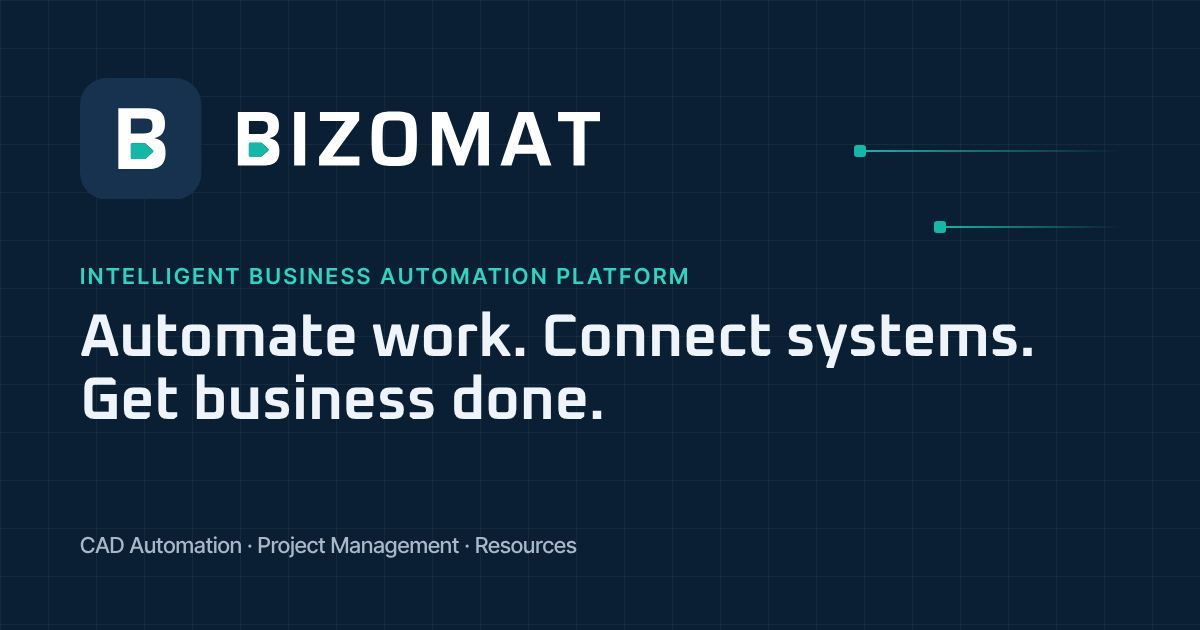
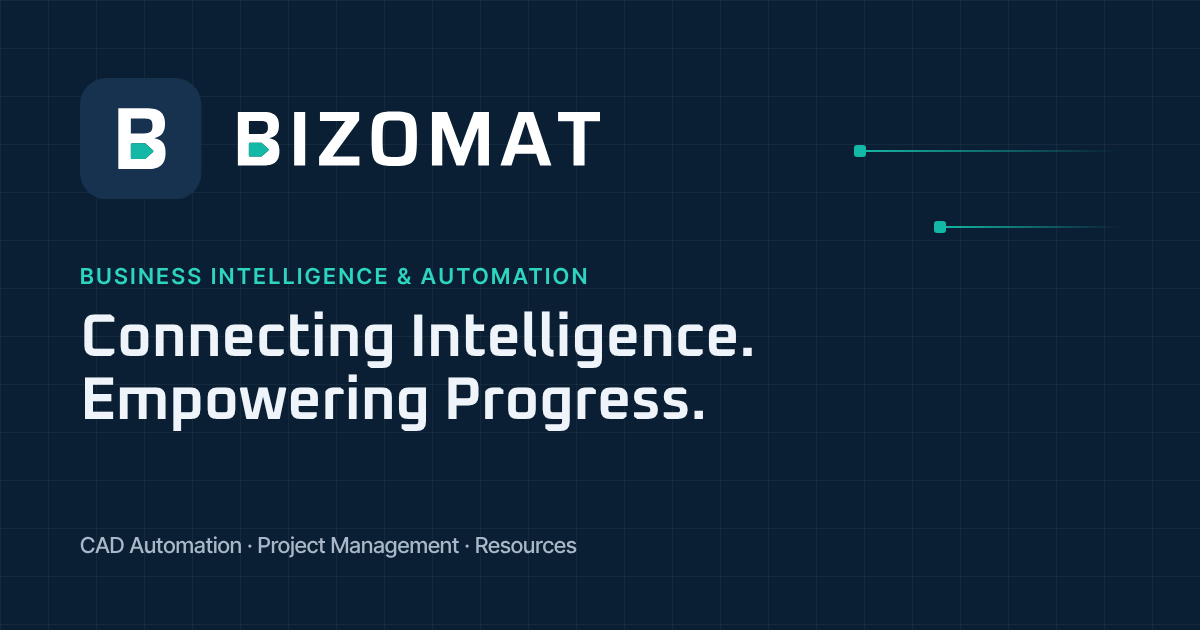
BIZOMAT corporate brand language: website and Project Management (#60) [skip ci]
Descriptor, slogan, supporting message, introduction and description from src/config/platform.ts; homepage hero and close; corporate footer; metadata and the main social image; Project Management's footers. Logo, layout, colours and product names unchanged. CI could not run (no Actions runner was assigned); verified locally: npm run verify (1515 tests, build), proxy tests, apps/work npm run check and Playwright core spec.

Changed region(s): [[0.0617, 0.4825, 0.8633, 0.6937], [0.0617, 0.4222, 0.5858, 0.4524]]

diff --git a/tests/homepage.test.ts b/tests/homepage.test.ts
@@ -10,11 +10,16 @@ import { PRODUCTS, SOLUTIONS } from '../src/config/products.ts';
 const read = (path: string) => readFileSync(join(process.cwd(), path), 'utf8');
 const home = read('src/pages/index.astro');
 
-// BIZOMAT homepage (5 Nov 2026): "Automate work. Connect systems. Get business done." Hero with Explore Products and
+// BIZOMAT homepage: the corporate slogan "Connecting Intelligence. Empowering Progress." (owner, 8 Nov 2026; it replaced
+// "Automate work. Connect systems. Get business done." of 5 Nov). Hero with Explore Products and
 // Explore AI Tools, then the three products, AI Search, proof, tools and the Library.
 test('the homepage leads with the BIZOMAT message, then products, AI search, proof, tools and resources', () => {
-  assert.match(home, /<p class="bz-eyebrow">Intelligent Business Automation Platform<\/p>/);
-  assert.match(home, /<h1 id="home-title"><span class="home-hero__line">Automate work\.<\/span> <span class="home-hero__line">Connect systems\.<\/span> <span class="home-hero__line">Get business done\.<\/span><\/h1>/);
+  assert.match(home, /<p class="bz-eyebrow">\{SITE\.tagline\}<\/p>/);
+  assert.match(home, /<h1 id="home-title"><span class="home-hero__line">Connecting Intelligence\.<\/span> <span class="home-hero__line">Empowering Progress\.<\/span><\/h1>/);
+  assert.match(home, /<p class="home-hero__lead">\{SITE\.introduction\}<\/p>/);
+  assert.equal(SITE.tagline, 'Business Intelligence & Automation');
+  assert.equal(SITE.statement, 'Connecting Intelligence. Empowering Progress.');
+  assert.equal(SITE.support, 'Technology Connected. Progress Delivered.');
   assert.match(home, />Explore Products<\/Button>/);
   assert.match(home, />Explore AI Tools<\/Button>/);
   assert.match(home, /<ConnectedOps id="hero-ops" \/>/, 'the hero shows connected operations');
@@ -24,7 +29,7 @@ test('the homepage leads with the BIZOMAT message, then products, AI search, pro
   assert.match(home, /<Button href="\/tools\/" arrow data-cta="home-tools">Explore Tools<\/Button>/);
   assert.match(home, /<Button href="\/reados\/" arrow data-cta="home-library">Explore Library<\/Button>/);
   assert.match(home, /<form class="home-search" role="search" action="\/tools\/" method="get">/, 'tool search works without JavaScript');
-  assert.equal(SITE.title, 'BIZOMAT | Intelligent Business Automation Platform');
+  assert.equal(SITE.title, 'BIZOMAT | Business Intelligence & Automation');
   assert.deepEqual(NAV.map((n) => n.label), ['CAD Automation', 'Project Management', 'Resources', 'Engine Room']);
   assert.deepEqual(NAV.map((n) => n.href), ['/cad-automation/', '/work/', '/resources/', '/engine-room/']);
 });

diff --git a/apps/work/src/client/lib/brand.ts b/apps/work/src/client/lib/brand.ts
@@ -6,8 +6,11 @@ import { DEFAULT_COLOR, PRODUCT } from '../../shared/brand';
 export const BRAND = {
   /** The platform this product belongs to. Never followed by a trade mark sign. */
   platform: PRODUCT.platform,
-  platformTagline: 'Intelligent Business Automation Platform',
-  statement: 'Automate work. Connect systems. Get business done.',
+  /** The platform's descriptor and slogan (the website's src/config/platform.ts, owner 8 Nov 2026). */
+  platformTagline: 'Business Intelligence & Automation',
+  statement: 'Connecting Intelligence. Empowering Progress.',
+  /** The copyright line every BIZOMAT site carries. */
+  copyright: `© ${new Date().getFullYear()} BIZOMAT. All rights reserved.`,
   /** Short product name, used next to the BIZOMAT wordmark. */
   product: PRODUCT.name,
   /** Full product name: page titles, metadata, screen readers. */
@@ -29,6 +32,9 @@ export const BRAND = {
  */
 export const PLATFORM_URLS = {
   website: 'https://bizomat.ai/',
+  about: 'https://bizomat.ai/engine-room/',
+  products: 'https://bizomat.ai/products/',
+  contact: 'https://bizomat.ai/contact/',
   productPage: 'https://bizomat.ai/work/',
   cad: 'https://bizomat.ai/cad/',
   resources: 'https://bizomat.ai/resources/',
@@ -46,13 +52,18 @@ export const APP_HOSTS = ['bizomat.ai', 'work.kevos.com'] as const;
 /** The platform links shown in the app shell and on the sign-in pages, in display order. */
 export const PLATFORM_LINKS = {
   products: [
-    { label: 'BIZOMAT', href: PLATFORM_URLS.website, title: 'The BIZOMAT platform website' },
+    { label: 'BIZOMAT', href: PLATFORM_URLS.website, title: 'The BIZOMAT website' },
     { label: 'CAD Automation', href: PLATFORM_URLS.cad, title: 'BIZOMAT CAD Automation' },
     { label: 'Resources', href: PLATFORM_URLS.resources, title: 'BIZOMAT Resources' },
   ],
+  company: [
+    { label: 'About', href: PLATFORM_URLS.about, title: 'About BIZOMAT' },
+    { label: 'Products', href: PLATFORM_URLS.products, title: 'BIZOMAT products' },
+    { label: 'Contact', href: PLATFORM_URLS.contact, title: 'Contact BIZOMAT' },
+  ],
   legal: [
-    { label: 'Privacy', href: PLATFORM_URLS.privacy, title: 'BIZOMAT privacy policy' },
-    { label: 'Terms', href: PLATFORM_URLS.terms, title: 'BIZOMAT terms' },
+    { label: 'Privacy Policy', href: PLATFORM_URLS.privacy, title: 'BIZOMAT privacy policy' },
+    { label: 'Terms of Use', href: PLATFORM_URLS.terms, title: 'BIZOMAT terms of use' },
     { label: 'Disclaimer', href: PLATFORM_URLS.disclaimer, title: 'BIZOMAT disclaimer' },
   ],
 } as const;

diff --git a/tests/navigation.test.ts b/tests/navigation.test.ts
@@ -33,7 +33,7 @@ test('the main navigation reads CAD Automation, Project Management, Resources, E
 
 test('the footer covers products, resources, company and the applications, with the legal pages on every page', () => {
   const pairs = [...FOOTER_NAV.products, ...FOOTER_NAV.resources, ...FOOTER_NAV.company, ...FOOTER_NAV.apps, ...FOOTER_NAV.legal].map((n) => [n.label, n.href]);
-  for (const pair of [['CAD Automation', '/cad-automation/'], ['Project Management', '/work/'], ['Resources', '/resources/'], ['Tools', '/tools/'], ['Library', '/reados/'], ['The Engine Room', '/engine-room/'], ['Contact', '/contact/'], ['Privacy', '/privacy/'], ['Terms', '/terms/'], ['Disclaimer', '/disclaimer/']]) {
+  for (const pair of [['CAD Automation', '/cad-automation/'], ['Project Management', '/work/'], ['Resources', '/resources/'], ['Tools', '/tools/'], ['Library', '/reados/'], ['Home', '/'], ['About', '/engine-room/'], ['Contact', '/contact/'], ['All products', '/products/'], ['Solutions', '/solutions/'], ['Privacy Policy', '/privacy/'], ['Terms of Use', '/terms/'], ['Disclaimer', '/disclaimer/']]) {
     assert.ok(pairs.some(([l, h]) => l === pair[0] && h === pair[1]), `footer has ${pair[0]}`);
   }
   const labels = [...NAV, ...NAV.flatMap((n) => n.children ?? []), ...pairs.map(([label]) => ({ label }))].map((n) => n.label);
@@ -41,6 +41,10 @@ test('the footer covers products, resources, company and the applications, with 
   const footer = read('src/components/Footer.astro');
   for (const h of ['Products', 'Resources', 'Company', 'Applications']) assert.match(footer, new RegExp(`<h2 class="site-footer__heading">${h}</h2>`));
   assert.match(footer, /FOOTER_NAV\.legal\.map/);
+  // The corporate footer (owner, 8 Nov 2026): logo, slogan, short description and the copyright line.
+  assert.match(footer, /<p class="site-footer__tagline">\{SITE\.statement\}<\/p>/);
+  assert.match(footer, /<p>\{SITE\.footer\}<\/p>/);
+  assert.match(footer, /© \{year\} \{SITE\.name\}\. All rights reserved\./);
 });
 
 test('breadcrumbs say Tools and Library, never WORKOS or READOS', () => {

diff --git a/src/config/site.ts b/src/config/site.ts
@@ -15,13 +15,16 @@ export const SITE = {
   ogLocale: 'en_AU',
   country: 'Australia',
   /** Default <title> on the homepage and fallback description everywhere else. */
-  title: 'BIZOMAT | Intelligent Business Automation Platform',
-  description:
-    'BIZOMAT is an intelligent business automation platform: CAD Automation for SOLIDWORKS, Project Management for teams, and free engineering and business tools, books and guides.',
+  title: 'BIZOMAT | Business Intelligence & Automation',
+  description: PLATFORM.description,
   /** One-line brand statement used in the footer and structured data. */
   statement: PLATFORM.statement,
   /** Short descriptor shown under the brand in places like the footer. */
   tagline: PLATFORM.tagline,
+  /** Supporting message, corporate introduction and the footer's short description (src/config/platform.ts). */
+  support: PLATFORM.support,
+  introduction: PLATFORM.introduction,
+  footer: PLATFORM.footer,
   /** Public contact email (owner, 6 Nov 2026). Leave empty to hide it everywhere. Must equal CONTACT_EMAIL in
    *  src/server/contact/cloudflare-mail.ts (a test checks). */
   email: 'info@bizomat.ai',
@@ -132,7 +135,8 @@ export const FOOTER_NAV = {
     { href: '/rss.xml', label: 'Library RSS feed' },
   ],
   company: [
-    { href: '/engine-room/', label: 'The Engine Room' },
+    { href: '/', label: 'Home' },
+    { href: '/engine-room/', label: 'About' },
     { href: '/contact/', label: 'Contact' },
     { href: '/services/', label: 'Engineering services' },
     { href: '/assessment/', label: 'Problem Assessment' },
@@ -143,8 +147,8 @@ export const FOOTER_NAV = {
     { href: APP_LINKS.cad.signIn, label: 'Sign in to CAD Automation' },
   ],
   legal: [
-    { href: '/privacy/', label: 'Privacy' },
-    { href: '/terms/', label: 'Terms' },
+    { href: '/privacy/', label: 'Privacy Policy' },
+    { href: '/terms/', label: 'Terms of Use' },
     { href: '/disclaimer/', label: 'Disclaimer' },
   ],
 } as const;

diff --git a/apps/work/e2e/core.spec.ts b/apps/work/e2e/core.spec.ts
@@ -32,7 +32,7 @@ test('BIZOMAT branding on the sign-in page and in the app shell', async ({ page 
   expect(await page.locator('body').evaluate((b) => getComputedStyle(b).fontFamily)).toContain('Inter Tight');
   // Platform legal pages open in the same tab; links to other hosts carry rel="noopener".
   const legal = page.getByRole('navigation', { name: 'BIZOMAT legal' });
-  for (const [name, href] of [['Privacy', 'https://bizomat.ai/privacy/'], ['Terms', 'https://bizomat.ai/terms/'], ['Disclaimer', 'https://bizomat.ai/disclaimer/']]) {
+  for (const [name, href] of [['Privacy Policy', 'https://bizomat.ai/privacy/'], ['Terms of Use', 'https://bizomat.ai/terms/'], ['Disclaimer', 'https://bizomat.ai/disclaimer/']]) {
     const link = legal.getByRole('link', { name, exact: true });
     await expect(link).toHaveAttribute('href', href);
     await expect(link).toHaveAttribute('rel', 'noopener');
@@ -44,6 +44,8 @@ test('BIZOMAT branding on the sign-in page and in the app shell', async ({ page 
   await expect(page).toHaveTitle('Home · BIZOMAT Project Management');
   await expect(page.getByRole('link', { name: 'BIZOMAT Project Management home' })).toBeVisible();
   await expect(page.getByText('Part of the BIZOMAT platform')).toBeVisible();
+  await expect(page.getByText('Connecting Intelligence. Empowering Progress.')).toBeVisible();
+  await expect(page.getByText(/© \d{4} BIZOMAT\. All rights reserved\./).first()).toBeVisible();
   const platform = page.getByRole('navigation', { name: 'BIZOMAT platform' });
   await expect(platform.getByRole('link', { name: 'BIZOMAT', exact: true })).toHaveAttribute('href', 'https://bizomat.ai/');
   await expect(platform.getByRole('link', { name: 'CAD Automation', exact: true })).toHaveAttribute('href', 'https://bizomat.ai/cad/');

diff --git a/src/config/platform.ts b/src/config/platform.ts
@@ -12,8 +12,20 @@ const clean = (value: string | undefined, fallback: string) => (value && /^https
 
 export const PLATFORM = {
   name: 'BIZOMAT',
-  tagline: 'Intelligent Business Automation Platform',
-  statement: 'Automate work. Connect systems. Get business done.',
+  // Corporate brand language (owner, 8 Nov 2026). The descriptor and the slogan replace "Intelligent Business Automation
+  // Platform" and "Automate work. Connect systems. Get business done." Products keep their own names and wording.
+  /** Brand descriptor. */
+  tagline: 'Business Intelligence & Automation',
+  /** Primary slogan. */
+  statement: 'Connecting Intelligence. Empowering Progress.',
+  /** Supporting message. */
+  support: 'Technology Connected. Progress Delivered.',
+  /** Corporate introduction. */
+  introduction: 'BIZOMAT brings together intelligent technologies, connected systems and practical automation to help businesses and industries work smarter, operate better and move forward.',
+  /** Corporate description: metadata and structured data. */
+  description: 'BIZOMAT is a technology and automation company connecting business intelligence, artificial intelligence, engineering and practical automation.',
+  /** The footer's short description. */
+  footer: 'BIZOMAT connects intelligent technologies, software and practical automation to simplify work and advance business and industry.',
   founder: 'Kevin Jogin',
   /** The trade mark the business registered under its former name. BIZOMAT itself is not a registered trade mark. */
   formerName: {

diff --git a/apps/work/src/client/components/layout/PlatformLinks.tsx b/apps/work/src/client/components/layout/PlatformLinks.tsx
@@ -17,17 +17,21 @@ function LinkList({ links, label }: { links: readonly Link[]; label: string }) {
   );
 }
 
-/** Sidebar footer: "Part of the BIZOMAT platform" with the platform's products and legal pages (same tab). */
+/** Sidebar footer: "Part of the BIZOMAT platform", the slogan, the platform's products, company and legal pages (same
+ *  tab), and the copyright line. */
 export function PlatformFooter() {
   return (
     <div className="brand-foot">
       <div className="brand-foot-line">
         <BrandMark size={16} /> <span>Part of the <strong>{BRAND.platform}</strong> platform</span>
       </div>
+      <p className="brand-foot-slogan">{BRAND.statement}</p>
       <nav className="platform-links" aria-label={`${BRAND.platform} platform`}>
         <LinkList links={PLATFORM_LINKS.products} label="Platform" />
+        <LinkList links={PLATFORM_LINKS.company} label="Company" />
         <LinkList links={PLATFORM_LINKS.legal} label="Legal" />
       </nav>
+      <p className="brand-foot-copy">{BRAND.copyright}</p>
     </div>
   );
 }

diff --git a/tests/engine-room.test.ts b/tests/engine-room.test.ts
@@ -70,7 +70,8 @@ test('the Engine Room joins About and Proof of Work, and every old address and i
   assert.doesNotMatch(portrait, /<script|style="/, 'no script or inline style (CSP)');
   assert.match(page, /VERIFICATION\.map/, 'the test record');
   assert.match(page, /'@type': 'AboutPage'/);
-  assert.match(read('src/config/site.ts'), /\{ href: '\/engine-room\/', label: 'The Engine Room' \}/);
+  // The footer's About link (the corporate footer, 8 Nov 2026) is The Engine Room.
+  assert.match(read('src/config/site.ts'), /\{ href: '\/engine-room\/', label: 'About' \}/);
   for (const gone of ['src/pages/about.astro', 'src/pages/proof-of-work.astro']) assert.ok(!existsSync(gone), `${gone} is merged into the Engine Room`);
   const redirects = read('public/_redirects').split(/\r?\n/).map((l) => l.trim().split(/\s+/));
   for (const from of ['/about', '/about/', '/proof-of-work', '/proof-of-work/']) {

diff --git a/apps/work/src/client/styles/app.css b/apps/work/src/client/styles/app.css
@@ -243,6 +243,8 @@ kbd {
 .brand-foot { margin-top: auto; padding: 16px 10px 2px; font-size: 11.5px; color: var(--text-3); display: flex; flex-direction: column; gap: 8px; }
 .brand-foot-line { display: flex; align-items: center; gap: 7px; }
 .brand-foot-line strong { color: var(--text-2); font-weight: 650; letter-spacing: .02em; }
+.brand-foot-slogan, .brand-foot-copy { margin: 0; }
+.brand-foot-slogan { color: var(--text-2); font-weight: 600; }
 .platform-links { display: flex; flex-direction: column; gap: 4px; }
 .platform-links ul { list-style: none; margin: 0; padding: 0; display: flex; flex-wrap: wrap; gap: 2px 12px; }
 .platform-links a { color: var(--text-3); }

diff --git a/apps/work/src/client/pages/Auth.tsx b/apps/work/src/client/pages/Auth.tsx
@@ -43,6 +43,7 @@ export function AuthLayout({ title, subtitle, children }: { title: string; subti
           <span>Part of the {BRAND.platform} platform</span>
           <PlatformLegalLinks />
           <Link to="/privacy">How {BRAND.product} uses your data</Link>
+          <span>{BRAND.copyright}</span>
         </footer>
       </div>
     </div>

diff --git a/docs/BIZOMAT-PROJECT-STATUS.md b/docs/BIZOMAT-PROJECT-STATUS.md
@@ -173,3 +173,4 @@ exists.
 | 6 Nov 2026 | Cloudflare migration (owner's request; decisions: bizomat.ai, Containers on the Workers Paid plan, Project Management as its own Worker), Phases 2 and 3 in code, nothing deployed: CADOS#25 (the Worker `bizomat-mcp` at mcp.bizomat.ai in front of the CAD server's container, its data folder in R2, fail-closed without accounts; a local run of Worker, container and R2 passed sign-in, OAuth discovery, the MCP client, a paired computer and a restart onto a fresh disk); this repository: the Worker `bizomat` (zone routes for bizomat.ai that act once the records are proxied, `CAD` and `TASKS` bindings, `deploy-guard.mjs`), the Worker `bizomat-tasks` (apps/work env `bizomat`) and `apps/work/scripts/migrate/to-cloudflare.mjs` (Fly to D1 and R2, rehearsed against wrangler's local D1 and R2). Progress and remaining steps: `BIZOMAT-CLOUDFLARE-MIGRATION.md` |
 | 7 Nov 2026 | Owner decision: bizomat.ai is the single production domain. The website is the Worker `bizomat` at `https://bizomat.ai` (www answers 301 there); CAD Automation's MCP endpoint is `https://mcp.bizomat.ai/mcp` (Worker `bizomat-mcp`). The CAD Automation page shows that connector address (`PUBLIC_CAD_MCP_URL`); the contact form takes Turnstile tokens from bizomat.ai and www.bizomat.ai only; without the `TASKS` binding `/tasks` goes to the origin, no longer to work.kevos.com. Deploys wait for a working Cloudflare credential (the saved one is refused) or the laptop (`cloudflare.ps1`). Addresses: `BIZOMAT-CLOUDFLARE-MIGRATION.md`, "Production addresses" |
 | 7 Nov 2026 | Every GitHub repository is private (owner). The website Worker serves public downloads from R2 (`/downloads/`, bucket `bizomat-downloads`); CAD Automation's installer, checksum and update record are published there with CADOS `cloudflare.ps1 publish installer`; CAD pages link the checksum and the contact page, never GitHub. The laptop works from its signed-in clones; CI minutes for private repositories ran out at 00:11 UTC (every job fails with no log), so the laptop's checks are the gate |
+| 8 Nov 2026 | Corporate brand language (owner's brief; logo, layout, colours and product names kept): descriptor "Business Intelligence & Automation", slogan "Connecting Intelligence. Empowering Progress.", supporting message "Technology Connected. Progress Delivered.", corporate introduction and description (`src/config/platform.ts`). Website: homepage hero and close, footer (slogan, short description, Home, About, Contact, Privacy Policy, Terms of Use, copyright), default title and description, Organization data, manifest, main social image. Project Management: slogan, company links and copyright in its footers. CAD Automation's footer in CADOS, then `apps/cad` by sync. The founder's photograph on The Engine Room (#59). |

diff --git a/CLAUDE.md b/CLAUDE.md
@@ -6,9 +6,13 @@ Read this file, `docs/BIZOMAT-PROJECT-STATUS.md`, `docs/BIZOMAT-ARCHITECTURE.md`
 
 ## Identity
 
-- **BIZOMAT is the active brand** (owner decision, 5 Nov 2026): "Intelligent Business Automation Platform";
-  statement "Automate work. Connect systems. Get business done." Products: **CAD Automation** (formerly CADOS),
+- **BIZOMAT is the active brand** (owner decision, 5 Nov 2026), the parent corporate brand of every product. Corporate
+  language (owner, 8 Nov 2026; one source, `src/config/platform.ts`): descriptor "Business Intelligence & Automation";
+  slogan "Connecting Intelligence. Empowering Progress."; supporting message "Technology Connected. Progress
+  Delivered."; the corporate introduction, description and footer line there. The logo, layout, colours (navy and
+  teal) and product names stay as they are (owner, 8 Nov 2026). Products: **CAD Automation** (formerly CADOS),
   **Project Management** (formerly KEVOS Work / WorkOS) and **Resources** (formerly the kevos.com Tools and Library).
+  Every site's footer carries the slogan, the short description and "© <year> BIZOMAT. All rights reserved."
 - **KEVOS is the former name.** KEVOS® is a registered Australian trade mark (No. 2469816); BIZOMAT is **not**
   registered. Never write "®" or "TM" after BIZOMAT and never call it registered. KEVOS appears only as the former
   name (footer, trade mark notice, "Formerly" labels) and in historical docs.
